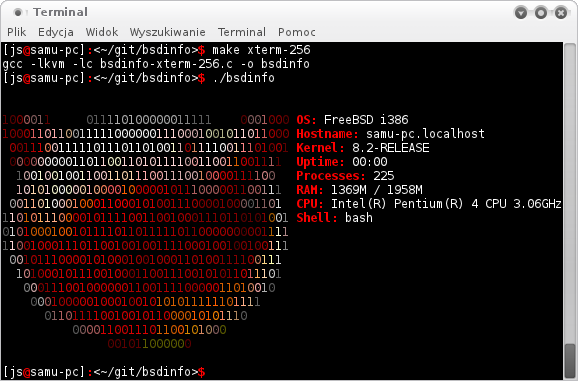
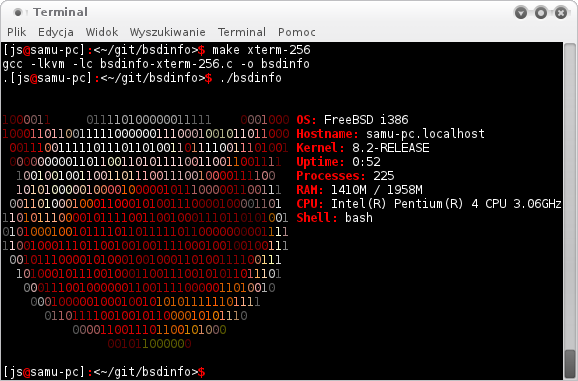
uptime fix

diff --git a/bsdinfo.h b/bsdinfo.h
@@ -24,7 +24,22 @@
  *  OUT OF THE USE OF THIS SOFTWARE, EVEN IF ADVISED OF THE POSSIBILITY OF
  *  SUCH DAMAGE.
  */
- 
+
+#include <sys/types.h>
+#include <sys/sysctl.h>
+
+#include <err.h>
+#include <stdio.h>
+#include <stdlib.h>
+#include <unistd.h>
+#include <sys/timespec.h>
+#include <time.h>
+#include <sys/proc.h>
+#include <kvm.h>
+#include <vm/vm_param.h>
+#include <string.h>
+#include <sys/user.h>
+
 #define O_RDONLY 0x0000
 #define _POSIX2_LINE_MAX 2048
 #define _PATH_DEVNULL "/dev/null"
@@ -71,9 +86,9 @@ int printuptime()
         if (hrs > 0 && mins > 0)
             (void)printf("%d:%02d", hrs, mins);
         else if (hrs == 0 && mins > 0) 
-            (void)printf("00:%02d", hrs, mins);
+            (void)printf("0:%02d", mins);
         else 
-            (void)printf("00:00");
+            (void)printf("0:00");
     }
 }
 
